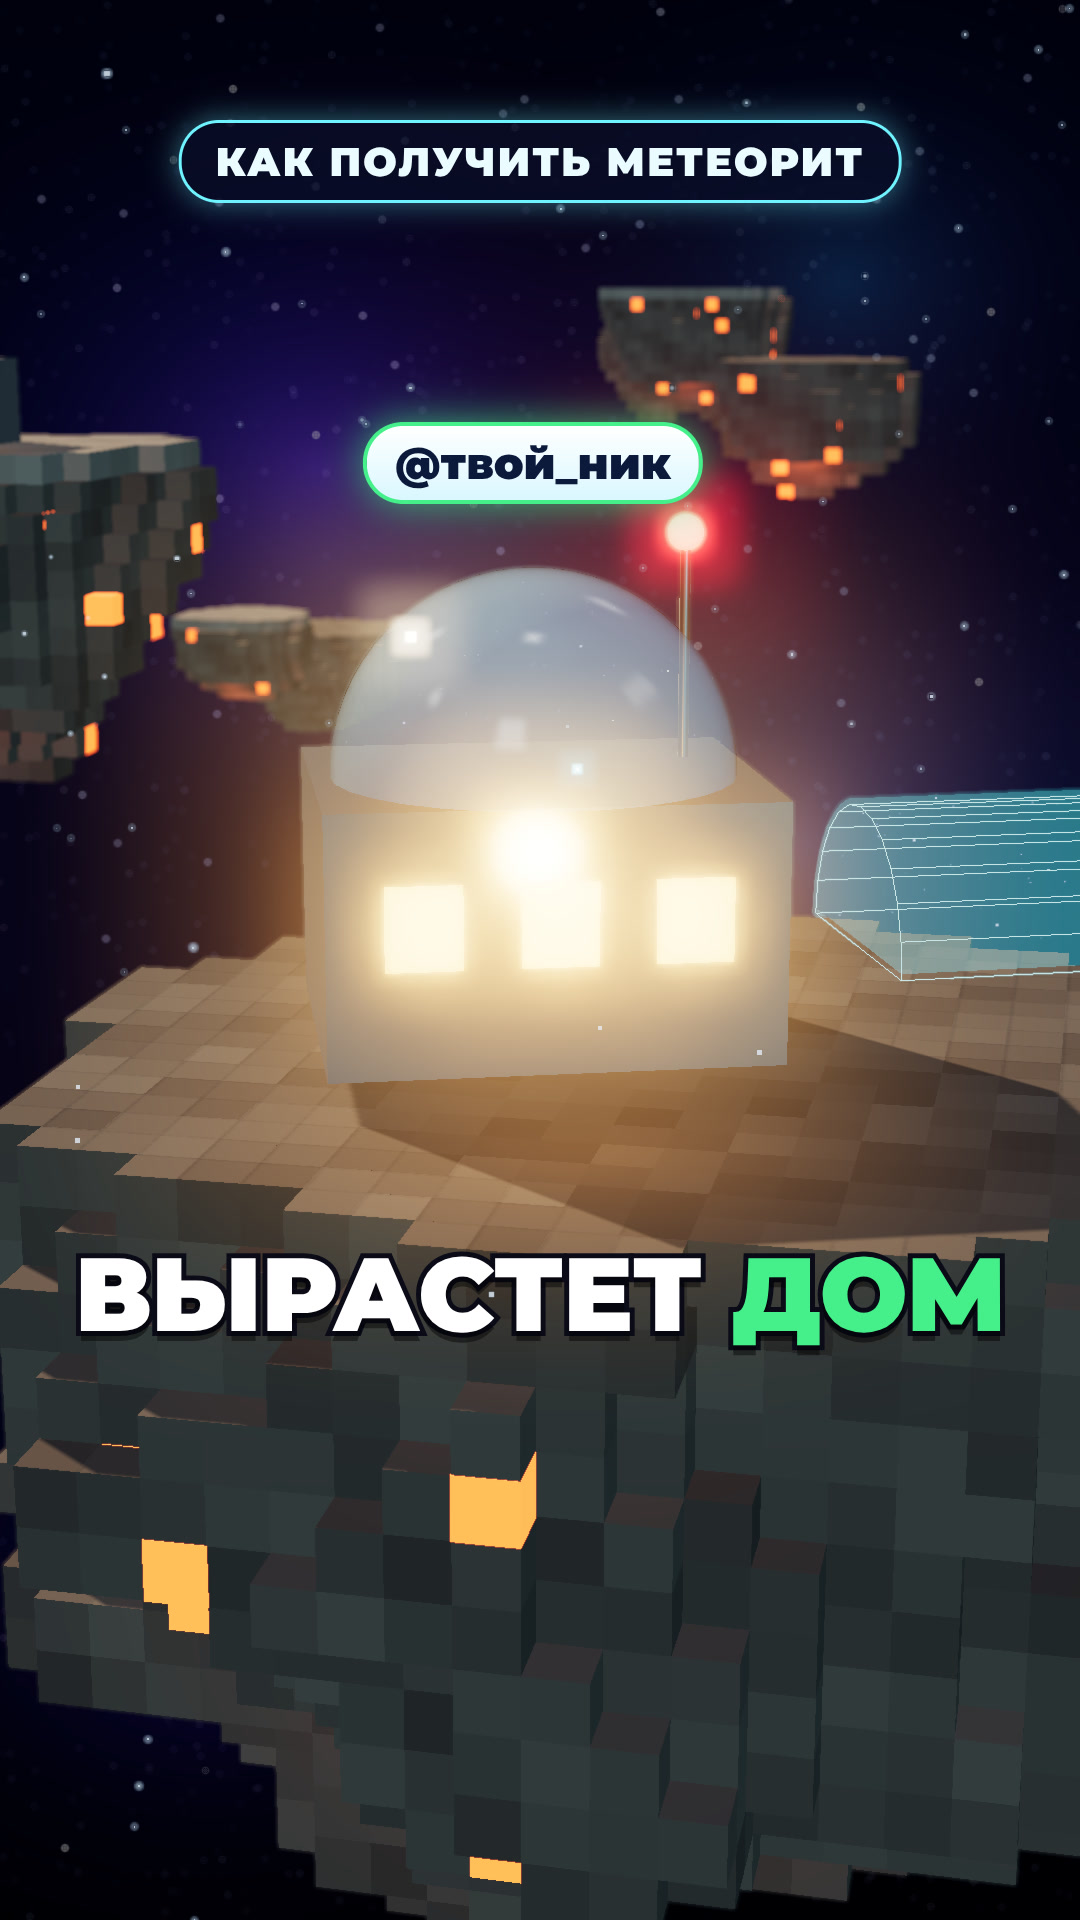
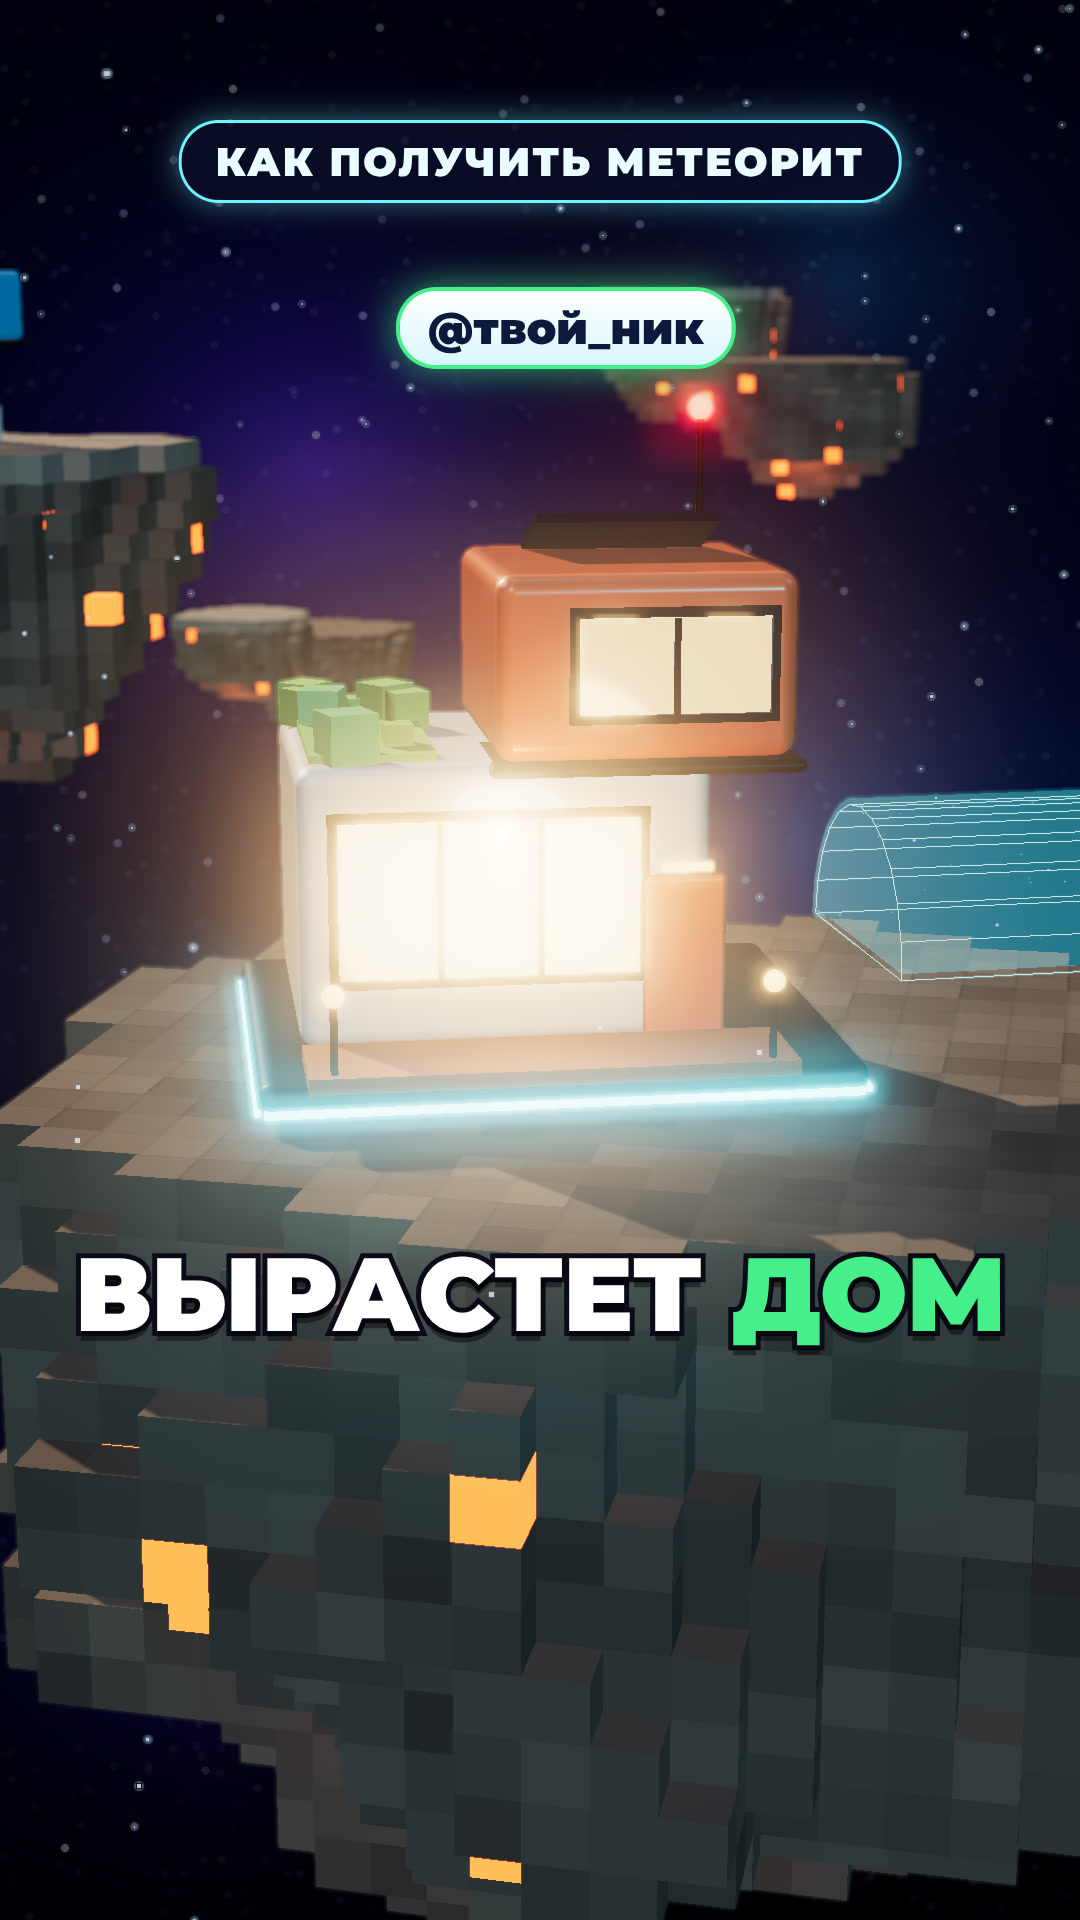
Preview: fresh building designs (house, greenhouse, hangar) and 3/3 frame
Claude-Session: https://claude.ai/code/session_016pR9oEj5MWHV9PKkxUgw4F

Changed region(s): [[0.0917, 0.125, 1.0, 0.6875], [0.8556, 0.625, 0.9778, 0.6562], [0.0, 0.125, 0.0306, 0.25]]

diff --git a/render/stil/prevyu/zdaniya.js b/render/stil/prevyu/zdaniya.js
@@ -1,0 +1,99 @@
+// Постройки для метеоритов: свежий «премиальный» стиль —
+// светлые панели, яркий акцент, тёплое стекло, дерево, сад на крыше, неоновая подсветка.
+import * as THREE from 'three';
+import {RoundedBoxGeometry} from 'three/addons/geometries/RoundedBoxGeometry.js';
+
+const rb = (w, h, d, r = 0.06) => new RoundedBoxGeometry(w, h, d, 4, r);
+const M = {
+  panel: new THREE.MeshPhysicalMaterial({color: 0xf3efe7, roughness: .42, clearcoat: .6, clearcoatRoughness: .25}),
+  trim: new THREE.MeshStandardMaterial({color: 0x2a3040, metalness: .8, roughness: .35}),
+  wood: new THREE.MeshStandardMaterial({color: 0xb5784a, roughness: .65}),
+  glass: new THREE.MeshPhysicalMaterial({color: 0x9fc9e8, metalness: .1, roughness: .04, transparent: true, opacity: .32, clearcoat: 1, depthWrite: false}),
+  warm: new THREE.MeshStandardMaterial({color: 0xffd9a0, emissive: 0xffb866, emissiveIntensity: 1.35}),
+  neon: new THREE.MeshStandardMaterial({color: 0x6ff3ff, emissive: 0x35e8ff, emissiveIntensity: 2.4}),
+  solar: new THREE.MeshStandardMaterial({color: 0x1a2c55, metalness: .7, roughness: .18}),
+  red: new THREE.MeshStandardMaterial({color: 0xff4d5e, emissive: 0xff2030, emissiveIntensity: 4}),
+  grow: new THREE.MeshStandardMaterial({color: 0xff7ad9, emissive: 0xff5ac8, emissiveIntensity: 1.6}),
+};
+const leaf = (h) => new THREE.MeshStandardMaterial({color: new THREE.Color().setHSL(h, .55, .42), roughness: .8});
+const acc = (c) => new THREE.MeshPhysicalMaterial({color: c, roughness: .3, clearcoat: .8, clearcoatRoughness: .2});
+
+function add(g, geo, mat, x, y, z, {cast = true, ry = 0, rx = 0} = {}) {
+  const m = new THREE.Mesh(geo, mat); m.position.set(x, y, z); m.rotation.set(rx, ry, 0);
+  m.castShadow = cast; m.receiveShadow = true; g.add(m); return m;
+}
+// окно = рамка + тёплый интерьер + стекло + импосты
+function windowPane(g, w, h, x, y, z, {mullions = 2} = {}) {
+  add(g, new THREE.BoxGeometry(w + .06, h + .06, .03), M.trim, x, y, z - .005, {cast: false});
+  add(g, new THREE.PlaneGeometry(w, h), M.warm, x, y, z + .012, {cast: false});
+  add(g, new THREE.PlaneGeometry(w, h), M.glass, x, y, z + .03, {cast: false});
+  for (let i = 1; i <= mullions; i++) add(g, new THREE.BoxGeometry(.018, h, .02), M.trim, x - w / 2 + w * i / (mullions + 1), y, z + .035, {cast: false});
+}
+function bushes(g, n, x0, y0, z0, w, d, seed = 1) {
+  let s = seed; const r = () => ((s = (s * 16807) % 2147483647) / 2147483647);
+  for (let i = 0; i < n; i++) {
+    const sz = .07 + r() * .09;
+    add(g, new THREE.BoxGeometry(sz, sz, sz), leaf(.27 + r() * .1), x0 + (r() - .5) * w, y0 + sz / 2, z0 + (r() - .5) * d, {ry: r() * 3});
+  }
+}
+function lamp(g, x, y, z) {
+  add(g, new THREE.CylinderGeometry(.012, .012, .22), M.trim, x, y + .11, z, {cast: false});
+  add(g, new THREE.SphereGeometry(.035, 12, 8), M.warm, x, y + .24, z, {cast: false});
+}
+
+// Дом: белый основной объём + консоль акцентного цвета, панорамное окно, терраса, сад на крыше
+export function domModern(accent = 0xff7a59, {light = true} = {}) {
+  const g = new THREE.Group();
+  add(g, rb(1.9, .12, 1.6, .05), M.trim, 0, .06, 0);
+  for (const [w, d, x, z] of [[1.86, .02, 0, .8], [1.86, .02, 0, -.8], [.02, 1.56, .95, 0], [.02, 1.56, -.95, 0]])
+    add(g, new THREE.BoxGeometry(w, .025, d), M.neon, x, .03, z, {cast: false});
+  add(g, rb(1.3, .9, 1.1), M.panel, -.15, .57, -.1);
+  add(g, rb(.95, .58, 1.0), acc(accent), .3, 1.31, -.05);
+  add(g, rb(1.0, .04, 1.08, .02), M.trim, .3, 1.0, -.05);
+  windowPane(g, .95, .5, -.2, .6, .455, {mullions: 2});
+  windowPane(g, .6, .3, .38, 1.32, .455, {mullions: 1});
+  add(g, rb(.26, .52, .05, .02), acc(accent), .42, .4, .46);
+  add(g, new THREE.BoxGeometry(.16, .025, .02), M.warm, .42, .69, .49, {cast: false});
+  add(g, new THREE.BoxGeometry(1.5, .05, .38), M.wood, -.05, .145, .72);
+  lamp(g, -.72, .17, .86); lamp(g, .62, .17, .86);
+  bushes(g, 9, -.55, 1.02, -.1, .35, .9, 3);
+  add(g, new THREE.BoxGeometry(.4, .03, .9), leaf(.3), -.55, 1.03, -.1, {cast: false});
+  add(g, new THREE.BoxGeometry(.6, .03, .4), M.solar, .32, 1.66, -.25, {rx: -.35});
+  add(g, new THREE.CylinderGeometry(.012, .012, .45), M.trim, .62, 1.82, -.4, {cast: false});
+  add(g, new THREE.SphereGeometry(.04, 12, 8), M.red, .62, 2.06, -.4, {cast: false});
+  if (light) { const pl = new THREE.PointLight(0xffc27a, 1.2, 2.5, 2); pl.position.set(-.1, .7, 1.0); g.add(pl); }
+  return g;
+}
+
+// Оранжерея: стеклянный полуцилиндр на деревянных рёбрах, растения, розовый фито-свет
+export function oranzhereya() {
+  const g = new THREE.Group();
+  add(g, rb(1.3, .08, .8, .03), M.wood, 0, .04, 0);
+  const tube = new THREE.CylinderGeometry(.38, .38, 1.15, 32, 1, true, 0, Math.PI);
+  add(g, tube, M.glass, 0, .08, 0, {cast: false}).rotation.set(0, 0, Math.PI / 2);
+  for (let i = 0; i < 5; i++) {
+    const rib = new THREE.Mesh(new THREE.TorusGeometry(.38, .018, 6, 24, Math.PI), M.wood);
+    rib.position.set(-.55 + i * .275, .08, 0); rib.rotation.y = Math.PI / 2; g.add(rib);
+  }
+  bushes(g, 22, 0, .08, 0, 1.0, .5, 11);
+  add(g, new THREE.BoxGeometry(1.0, .015, .03), M.grow, 0, .44, 0, {cast: false});
+  const pl = new THREE.PointLight(0xff6ad5, .9, 1.6, 2); pl.position.set(0, .3, 0); g.add(pl);
+  return g;
+}
+
+// Ангар: белая капсула с полосой акцента, открытые ворота, внутри маленький корабль, посадочная площадка
+export function angar(accent = 0x45c8ff) {
+  const g = new THREE.Group();
+  add(g, new THREE.CylinderGeometry(.75, .75, .06, 40), M.trim, 0, .03, 0);
+  for (let i = 0; i < 12; i++) { const a = i / 12 * Math.PI * 2; add(g, new THREE.SphereGeometry(.03, 8, 6), M.neon, Math.cos(a) * .7, .07, Math.sin(a) * .7, {cast: false}); }
+  add(g, rb(1.05, .62, 1.0, .25), M.panel, 0, .37, -.15);
+  add(g, rb(1.07, .1, 1.02, .05), acc(accent), 0, .5, -.15, {cast: false});
+  add(g, new THREE.PlaneGeometry(.72, .42), new THREE.MeshStandardMaterial({color: 0x0d1424, emissive: 0x16304a, emissiveIntensity: .8}), 0, .3, .356, {cast: false});
+  add(g, new THREE.BoxGeometry(.72, .02, .02), M.neon, 0, .52, .36, {cast: false});
+  // кораблик
+  add(g, rb(.22, .14, .5, .05), acc(0xffffff), 0, .16, .62);
+  add(g, new THREE.ConeGeometry(.08, .2, 16), acc(accent), 0, .16, .95, {rx: Math.PI / 2});
+  add(g, new THREE.BoxGeometry(.5, .02, .12), acc(accent), 0, .13, .58);
+  add(g, new THREE.SphereGeometry(.05, 12, 8), M.neon, 0, .16, .35, {cast: false});
+  return g;
+}

diff --git a/render/stil/prevyu/scena-prevyu.html b/render/stil/prevyu/scena-prevyu.html
@@ -23,6 +23,7 @@ import {RenderPass} from 'three/addons/postprocessing/RenderPass.js';
 import {UnrealBloomPass} from 'three/addons/postprocessing/UnrealBloomPass.js';
 import {BokehPass} from 'three/addons/postprocessing/BokehPass.js';
 import {OutputPass} from 'three/addons/postprocessing/OutputPass.js';
+import {domModern,oranzhereya,angar} from './zdaniya.js';
 import {RoomEnvironment} from 'three/addons/environments/RoomEnvironment.js';
 
 await document.fonts.load('900 40px M','ЭКИПАЖ 1?');await document.fonts.load('800 40px M','А1');
@@ -170,16 +171,16 @@ if(FRAME==='1'){
 if(FRAME==='2'){
   // ТВОЙ ДОМ: метеорит зрителя, дом с ником, голограмма оранжереи, метеорит героя на фоне
   const a=asteroid(2.0,0.18,{lava:true});scene.add(a);
-  const h=house(1.15);h.position.set(-0.3,0.72,0.1);h.rotation.y=0.35;scene.add(h);
+  const h=domModern(0xff7a59);h.scale.setScalar(0.95);h.position.set(-0.3,0.66,0.1);h.rotation.y=0.35;scene.add(h);
   const gh=greenhouse();gh.position.set(1.15,0.95,-0.4);gh.rotation.y=0.4;scene.add(gh);
   const hero=asteroid(1.4,0.16,{lava:true});hero.position.set(-5.5,1.5,-7);scene.add(hero);
-  const hh=house(0.8);hh.position.set(-5.6,2.0,-7);scene.add(hh);
+  const hh=domModern(0x45c8ff);hh.scale.setScalar(0.7);hh.position.set(-5.6,1.95,-7);scene.add(hh);
   for(let i=0;i<7;i++){const e=asteroid(0.6+rnd()*0.7,0.14,{lava:rnd()>0.6});e.position.set((rnd()-.5)*26,(rnd()-.5)*8+1,-12-rnd()*18);scene.add(e);}
   const gg=gasGiant();gg.position.set(140,40,-380);scene.add(gg);
   scene.add(particles(500,new THREE.Vector3(12,10,10),new THREE.Vector3(0,1,-2),0xcfe8ff,0.03,.6));
   cam.position.set(1.4,3.0,8.0);cam.lookAt(-0.3,0.9,0);focus=7.9;bloomStrength=0.6;
   renderer.render(scene,cam);
-  const [bx,by]=project(new THREE.Vector3(-0.3,2.35,0.1));
+  const [bx,by]=project(new THREE.Vector3(-0.2,2.75,0.1));
   ui.innerHTML=`<div class="plashka">КАК ПОЛУЧИТЬ МЕТЕОРИТ</div><div class="badge" style="left:${bx}px;top:${by}px">@твой_ник</div><div class="sub">ВЫРАСТЕТ <span class="g">ДОМ</span></div>`;
 }
 if(FRAME==='3'){
@@ -204,6 +205,21 @@ if(FRAME==='3'){
   ui.innerHTML=`<div class="sub" style="top:1250px">БУДЕТ ЦЕЛАЯ <span class="y">СТАНЦИЯ</span></div>`;
 }
 
+if(FRAME==='4'){
+  // ВИТРИНА: прокачанный метеорит зрителя — дом + оранжерея + ангар (3/3)
+  const a=asteroid(2.4,0.18,{lava:true});scene.add(a);
+  const top=2.4*0.35+0.02;
+  const h=domModern(0xff7a59);h.position.set(-0.55,top,0.2);h.rotation.y=0.25;scene.add(h);
+  const o=oranzhereya();o.position.set(1.25,top,0.75);o.rotation.y=-0.5;scene.add(o);
+  const an=angar(0x45c8ff);an.position.set(0.9,top,-1.2);an.rotation.y=-0.6;scene.add(an);
+  for(let i=0;i<6;i++){const e=asteroid(0.6+rnd()*0.7,0.14,{lava:rnd()>0.6});e.position.set((rnd()-.5)*24,(rnd()-.5)*8+1,-12-rnd()*16);scene.add(e);}
+  const gg=gasGiant();gg.position.set(-150,30,-400);scene.add(gg);
+  scene.add(particles(400,new THREE.Vector3(10,8,10),new THREE.Vector3(0,1,-1),0xcfe8ff,0.03,.5));
+  cam.position.set(3.4,4.3,8.6);cam.lookAt(0.3,1.2,0);focus=9.2;bloomStrength=0.55;aperture=0.0004;
+  renderer.render(scene,cam);
+  const [bx,by]=project(new THREE.Vector3(-0.3,top+2.05,0.35));
+  ui.innerHTML=`<div class="plashka">ПОСТРОЕК: 3 / 3</div><div class="badge" style="left:${bx}px;top:${by}px">@твой_ник</div><div class="sub" style="top:1380px">ПОТОМ <span class="g">ОРАНЖЕРЕЯ</span></div>`;
+}
 const comp=new EffectComposer(renderer);
 comp.addPass(new RenderPass(scene,cam));
 comp.addPass(new BokehPass(scene,cam,{focus,aperture,maxblur:0.008}));
